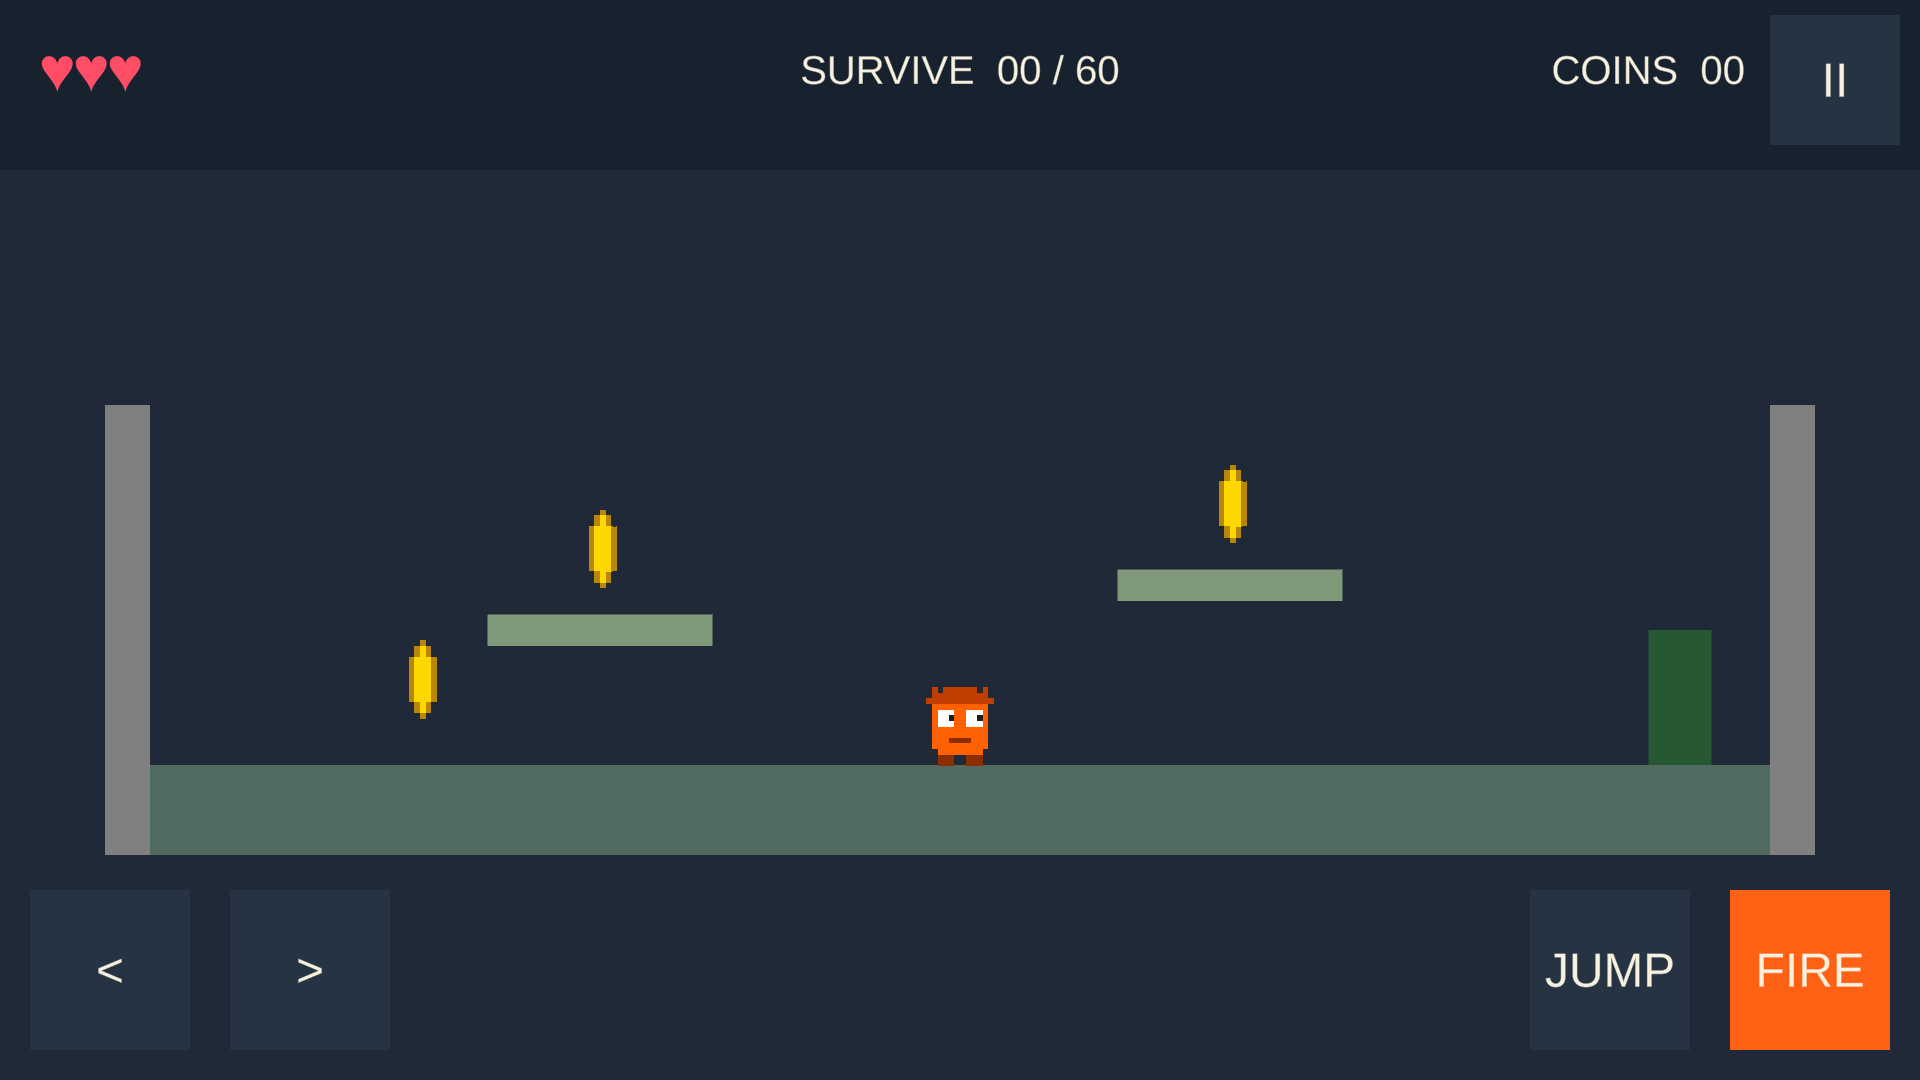
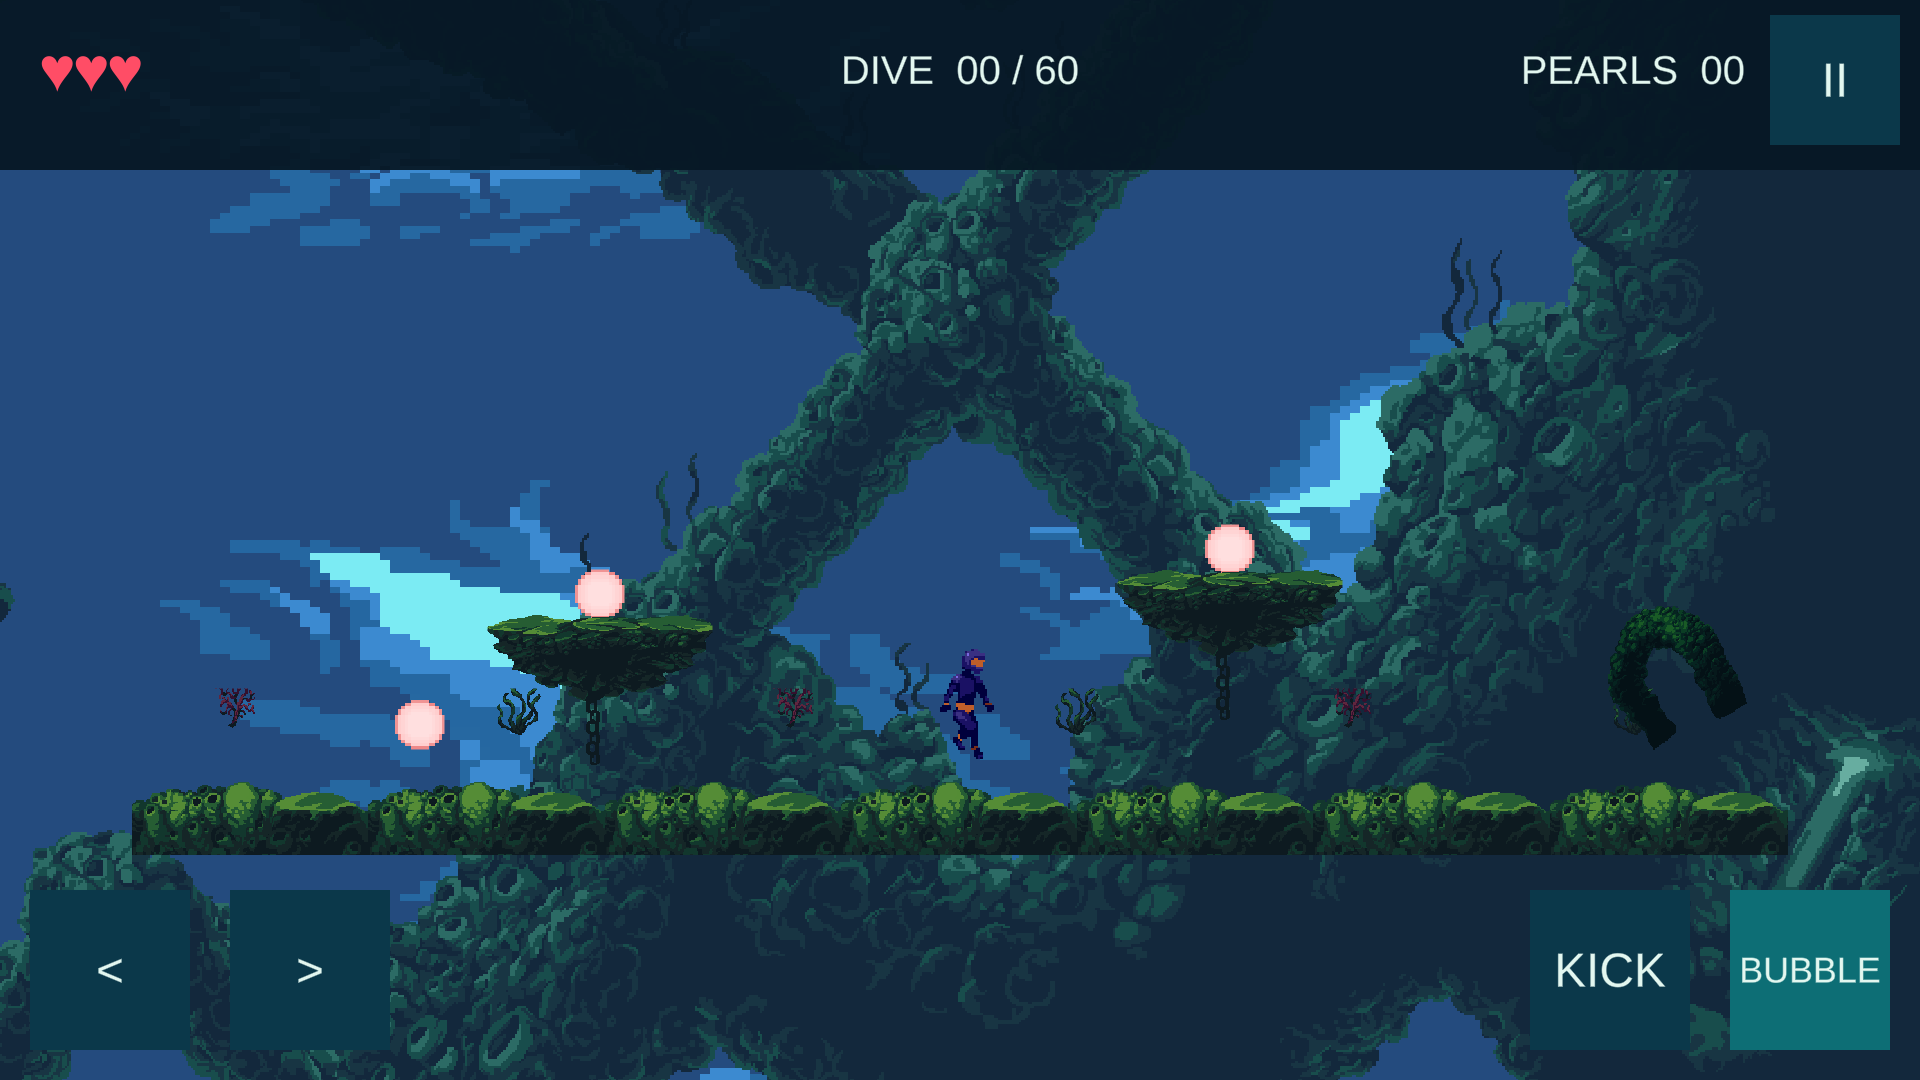
Document Pearlbound design and verified kickoff requirements

diff --git a/Docs/Verification.md b/Docs/Verification.md
@@ -1,13 +1,22 @@
-# Verification
+# Verification: Pearlbound
 
-Unity 6000.6.1f1 Play Mode verification passed on 2026-11-04.
+Unity 6000.6.1f1, 2026-11-04. Final Play Mode run: 376 assertions passed, no failed assertions. Five resulting screenshots were visually reviewed. The GDD has two pages and was rendered and visually reviewed.
 
-- Play loads Game; Resume continues time; Restart resets health and timer; Menu restores MainMenu and timeScale 1.
-- Pause stops scaled time and the survival timer.
-- Pointer callbacks move left/right, jump and repeatedly fire with the original cooldown.
-- Button reference dimensions are at least 120x120; text is at least 36 reference pixels.
-- UI bounds stay inside Screen.safeArea on Apple iPhone 8 Plus (1920x1080), Apple iPhone 12 (2532x1170, notched safe area), and Apple iPad 5th generation (2048x1536).
-- Five screenshots were captured through Unity's native Device Simulator and visually checked.
-- Quit has a persistent callback; Application.Quit was not invoked during automated Editor tests.
+Verified flows:
+- MainMenu Play loads Game; Pause stops scaled time and the dive timer; Resume continues the run.
+- Pointer callbacks move left/right, Kick performs the original grounded jump, and holding Bubble emits repeated projectiles with cooldown.
+- Restart resets health and time; Menu returns to MainMenu with timeScale 1. Quit's persistent callback is wired to Application.Quit; tests do not close the Editor.
+- All active buttons are >=120x120 reference pixels. TMP text is >=36 pixels. Button AND text bounds remain inside Screen.safeArea for the tested screen.
+- Damage removes HP; immediate repeated damage is blocked by invulnerability; healing restores HP.
+- Physical overlap with a pearl increments score and updates the HUD.
+- Reaching the dive timer goal activates Open on the rescue arch Animator and updates the HUD to RESCUE READY.
+- The new title/product name and licensed diver/pearl sprite references are present.
 
-This verifies Editor Play Mode and simulated layouts. An Android APK and physical-device testing are not included. The submission video must still be recorded with the student's own English voice (2-3 minutes).
+Native Device Simulator, landscape:
+- Apple iPhone 8 Plus: 1920x1080, full safe area.
+- Apple iPhone 12: 2532x1170, safe area x141 y63 width2250 height1107.
+- Apple iPad (5th gen): 2048x1536, full safe area.
+
+Temporary scene-authoring and automated verification scripts are excluded from the delivered Assets. The gameplay scripts remain the earlier instructor-based scripts; HUD labels changed for the new concept. New visual work consists of sprite imports, animation frames, prefab appearance, scene art and UI styling, with a collider fitted to the diver.
+
+Limits: Editor Play Mode and simulated screen layouts were checked. No Android APK or physical-device run is included. The English MP4 with the student's own voice and the Canvas upload are still required; see Kickoff-Checklist.md and English-Video-Guide.txt.

diff --git a/Docs/Kickoff-Checklist.md b/Docs/Kickoff-Checklist.md
@@ -1,0 +1,38 @@
+# Kickoff requirement checklist
+
+| Requirement from Assignment 8-9 | Evidence in this project |
+|---|---|
+| One personal mobile game, solo until week 14 | Pearlbound: 2D Android landscape seabed survival; Docs/Plan.md |
+| GDD: title/pitch | Section 01, Docs/Pearlbound_GDD.pdf |
+| GDD: genre, platform, orientation | Section 02 |
+| GDD: 2D / 3D | Section 03 |
+| GDD: core loop | Section 04 |
+| GDD: each control | Section 05 |
+| GDD: content counts | Section 06 |
+| GDD: art/audio and sources | Section 07 and Docs/Assets.md; original licenses retained |
+| GDD: week-15 MVP | Section 08 |
+| GDD: cut list | Section 09 |
+| GDD: weeks 9-13 and roles | Section 10 |
+| One or two PDF pages | Two rendered and visually reviewed pages |
+| GitHub Unity gitignore, README game name | Root .gitignore and README.md |
+| Visible Meta Files and Force Text | ProjectSettings; .meta files tracked; text scenes/assets |
+| Public repository | https://github.com/Whatever28/pearlbound-mobile |
+| 3+ meaningful commits from the student's account | Git history authored by Whatever28; earlier foundation plus underwater asset/theme/document commits |
+| Feature branch merged through PR | feature/pearlbound-underwater; merged PR linked in repository |
+| Main Menu title / Play / Quit | Assets/Scenes/MainMenu.unity; Docs/Screenshots/01_Menu.png |
+| HUD hearts / score / pause / mobile controls | Assets/Scenes/Game.unity; three HUD screenshots |
+| Pause Resume / Restart / Menu and frozen time | Game PausePanel; Docs/Screenshots/05_Pause.png |
+| Canvas Scaler 1920x1080, Match 1 | UI Canvas in both scenes |
+| Corner/edge/center anchors; stretch backgrounds | Saved RectTransforms; layout checks |
+| SafeArea panels for text/buttons | SafeArea component from lecture 8-9 |
+| Touch targets >=120x120 and bottom-corner controls | Layout checks; movement and action buttons are 160x160, Pause 130x130 |
+| Readable text >=about36 | TMP layout checks, including 36px Bubble label |
+| Every button works | Play Mode navigation, pointer movement, Kick, held Bubble, Pause, Resume, Restart and Menu checks; Quit callback inspected (actual exit is only in a built player) |
+| Native Device Simulator: 16:9 / notch / 4:3 | Apple iPhone 8 Plus, iPhone 12, iPad 5th generation in landscape |
+| One balanced art world | Underwater pixel-art pack, matching pearl pickup and teal UI |
+| Five screenshots | Docs/Screenshots: menu, pause, three device HUD captures |
+| 2-3 minute English MP4 with student's own voice | STILL REQUIRED: record using the supplied English video guide; a script is not the video |
+| Canvas upload of PDF, screenshots, MP4 and repo link | STILL REQUIRED: student uploads the final files and adds repository URL in the submission comment |
+
+Physical Android testing and APK export are planned in week 13; they are not listed as kickoff upload deliverables. Simulator verification does not establish physical-device behavior.
+

diff --git a/README.md b/README.md
@@ -1,13 +1,13 @@
-# Gatefall
+# Pearlbound
 
-A 2D survival game for Android, landscape, Unity 6000.6.1f1.
+A solo 2D seabed survival platformer for Android, landscape, made in Unity 6000.6.1f1. Guide a diver through sunken ruins, collect pearls, avoid sinking mines and survive until the rescue beacon activates after 60 seconds.
 
-Open this folder through Unity Hub, then open Assets/Scenes/MainMenu.unity and press Play. Build Settings contains MainMenu followed by Game. Android Build Support is needed to export an APK.
+Open this folder in Unity Hub, open Assets/Scenes/MainMenu.unity, then press Play. MainMenu and Game are the enabled scenes in Build Settings. Android Build Support is needed for an APK export.
 
-Survive for 60 seconds, dodge rocks and bombs, and collect hearts and coins. Mobile buttons: Left, Right, Jump and Fire. Desktop: A/D or arrows, Space and X. Pause offers Resume, Restart and Menu. Quit exits a built player; in the Editor it only logs the request.
+Controls: hold LEFT / RIGHT to move. KICK gives one upward impulse when on the seabed or a ledge. Hold BUBBLE to emit visual projectiles with the original 0.3-second cooldown. Keyboard fallback: A/D or arrows, Space, X. Pause offers RESUME, RESTART and MENU. QUIT closes a built player; in the Editor it only logs the request.
 
-The Canvas uses Scale With Screen Size, 1920x1080, Match Height (1). Controls and text live inside the SafeArea panel. The UI uses InputSystemUIInputModule; gameplay keeps the earlier keyboard examples with a small mobile input bridge. Active Input Handling is Both.
+Canvas: Scale With Screen Size, 1920x1080, Match Height (1). Text and controls live in SafeArea panels. InputSystemUIInputModule handles the UI; gameplay keeps the instructor's keyboard examples with the existing small mobile input bridge. Active Input Handling: Both. Visible Meta Files and Force Text are enabled.
 
-The instructor's animation kit supplies hero, coin and fire sprites. Audio comes from Kenney Digital Audio (CC0); its license is under Assets/Audio/Kenney. Flat arena geometry is retained from the earlier survival prototype.
+Original visual assets and licenses: [Docs/Assets.md](Docs/Assets.md). Game design and the ten required sections: [Docs/Pearlbound_GDD.pdf](Docs/Pearlbound_GDD.pdf). Weekly delivery plan: [Docs/Plan.md](Docs/Plan.md). Requirement evidence and remaining submission steps: [Docs/Kickoff-Checklist.md](Docs/Kickoff-Checklist.md).
 
-See Docs/Gatefall_GDD.pdf for the two-page design and weeks 9-13 plan. Docs/Screenshots contains Menu, Pause and three native Device Simulator HUD captures. Docs/Verification.md describes checks and limits.
+The repository retains the earlier prototype's history. The underwater concept is developed on feature/pearlbound-underwater and merged through a pull request. Generated Library, Temp, Logs and build output are excluded by GitHub's Unity .gitignore.

diff --git a/Docs/Code-Guide-RU.md b/Docs/Code-Guide-RU.md
@@ -1,0 +1,18 @@
+# Что поменялось в коде
+
+Игровая логика сохранена из предыдущего проекта, основанного на примерах преподавателя. Подводный набор используется только как графика: JavaScript-код демонстрационной игры не импортирован.
+
+| Файл | За что отвечает |
+|---|---|
+| SurvivalPlayerController | Движение, толчок вверх с опоры, параметры Animator Speed / Grounded и поворот спрайта. Кнопка KICK вызывает прежний прыжок. |
+| SurvivalCollectibles | Триггер предмета с тегом Coin увеличивает счётчик. В новой теме предмет выглядит как жемчужина; тег оставлен для совместимости с примером. |
+| Health | Урон, лечение, мигание и временная неуязвимость; смерть перезапускает сцену. |
+| Spawner, Hazard, Rock, BombHazard, Heart | Прежний спавн и реакции на игрока. Rock выглядит как малая мина, Bomb — большая мина, Heart — лечебный пузырёк. |
+| Shooter, Bullet, Bomb | Прежние Instantiate, cooldown, движение снаряда и отложенный эффект. Снаряд теперь выглядит как пузырёк; урон снарядом не добавлялся. |
+| SurvivalTimer | Через 60 секунд выставляет Open у Animator спасательной арки. |
+| HUDView | Читает здоровье, счёт и время. Надписи COINS / SURVIVE / GATE OPEN заменены на PEARLS / DIVE / RESCUE READY. |
+| SafeArea | Код SafeArea из лекции 8–9: переводит Screen.safeArea в нормализованные anchors. |
+| UIFlow | Загрузка сцен и показ панелей по примеру UI, пауза через Time.timeScale по лекции. |
+| MobileControls | Связывает нажатие и отпускание экранных кнопок с прежним движением, прыжком и стрельбой. |
+
+Анимации — готовые кадры из Underwater Diving Pack. В Unity листы нарезаны на спрайты, затем кадры назначены в Idle / Walk / Jump. Старые параметры и переходы Animator сохранены. Графика не была нарисована заново.

diff --git a/Docs/Plan.md b/Docs/Plan.md
@@ -1,13 +1,11 @@
-# Kickoff scope and milestones
+# Pearlbound: kickoff plan
 
-Core loop: move and dodge -> collect -> survive -> replay.
+Solo project until week 14. Android, 2D side view, landscape. One 60-second dive in a ruined seabed arena. Move, kick from the seabed or a ledge, avoid sinking mines, collect three pearls and healing air bubbles, then see the rescue beacon activate at 60 seconds.
 
-- Week 9: GDD, repository, responsive Menu/HUD/Pause and touch controls.
-- Week 10: enemy AI and hazard balance.
-- Week 11: local best-score and sound-preference saving.
-- Week 12: audio and effects polish.
-- Week 13: mobile testing and feature freeze.
+- Week 9: GDD, licensed underwater art, Menu/HUD/Pause, touch controls, safe area on three profiles, clean Git history and merged feature PR.
+- Week 10: add one patrolling fish using the enemy-AI lesson and balance hazards.
+- Week 11: save a local best pearl score and sound preference using the saving lesson.
+- Week 12: refine audio, bubbles/explosion and damage feedback with the sound/effects lessons.
+- Week 13: freeze features, test Android and all layouts, fix issues and rehearse the English video.
 
-One arena is the MVP. Multiplayer, accounts, shops and procedural levels are cut.
-
-See Gatefall_GDD.pdf for the ten-part design and roles.
+The week-15 MVP is one complete, stable mobile loop. No multiplayer, accounts, shop, ads, online leaderboard, inventory, procedural generation or additional worlds.

diff --git a/Docs/Assets.md b/Docs/Assets.md
@@ -1,0 +1,12 @@
+# Pearlbound: asset sources
+
+All active underwater graphics are existing free assets. No generated sprites are used.
+
+| Asset | Author / pack | License / source |
+|---|---|---|
+| Diver Idle, swimming and kick animation; fish, mines, bubbles, explosions, background, ruins and seabed tiles | Luis Zuno (ansimuz), Underwater Diving Pack | CC0 / public domain. https://opengameart.org/content/underwater-diving-pack |
+| Pearl pickup | MallardTV, 16x16 Pearl | CC0. https://opengameart.org/content/16x16-pearl |
+| Shoot, hurt and pickup sounds | Kenney, Digital Audio | CC0. https://kenney.nl/assets/digital-audio |
+| UI font | Liberation Sans | SIL Open Font License; original license in Assets/TextMesh Pro/Fonts |
+
+Original license notices are retained in Assets/Art/Underwater and Assets/Audio/Kenney. Spritesheets are sliced into frames using Unity's Sprite Editor/import data. The pack's JavaScript game code and demo music are not imported. Unity C# gameplay remains based on the instructor's examples from the earlier assignments.
